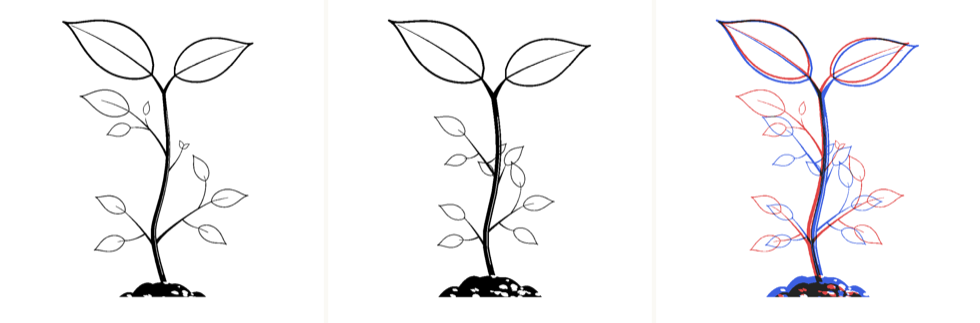
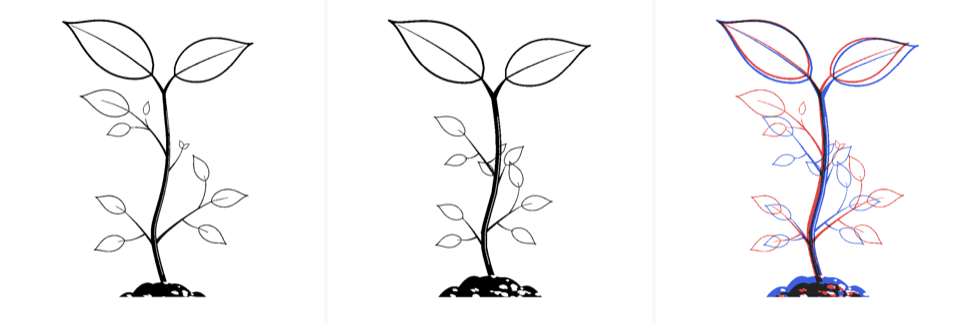
Deepen the canopy stem's lower left curve
The first bend bottom-up now reaches about 0.005 of the canvas further
left, apex -0.049 to -0.059 in canopyLean. Roughly four screen pixels —
the small distance asked for.

It is a departure from the trace and worth saying so. Traced exactly, the
left lobe measured right and read shallow, because the stem is turned two
degrees counterclockwise about its foot and that turn eats into the
leftward excursion the eye sees. The right lobe is left alone: it sits on
the side the turn moves toward, so it loses nothing and needs nothing
back.

Stage 3 differs by 2 pixels of 62,408.

Changed region(s): [[0.4286, 0.4954, 0.5816, 0.8359], [0.7653, 0.5263, 0.9184, 0.8359]]

diff --git a/Written/Views/Tree/SeedlingArt.swift b/Written/Views/Tree/SeedlingArt.swift
@@ -303,8 +303,15 @@ enum SeedlingArt {
     /// Scaled by the reference's 940×1120 viewBox against our own units, and
     /// paired with `forkX`, which carries the rightward finish this profile
     /// cannot.
+    ///
+    /// The left lobe is then deepened by a fifth — apex -0.049 to -0.059 — which
+    /// is a departure from the trace and deliberate. Traced exactly it measured
+    /// right and read shallow, because the stem is turned two degrees
+    /// counterclockwise about its foot and that turn eats into the leftward
+    /// excursion the eye actually sees. The right lobe is untouched: it sits on
+    /// the side the turn moves *toward*, so it loses nothing.
     static let canopyLean: [CGFloat] = [
-        0.000, -0.028, -0.048, -0.049, -0.026,
+        0.000, -0.034, -0.058, -0.059, -0.031,
         -0.002, 0.013, 0.022, 0.022, 0.013, 0.000
     ]
 
